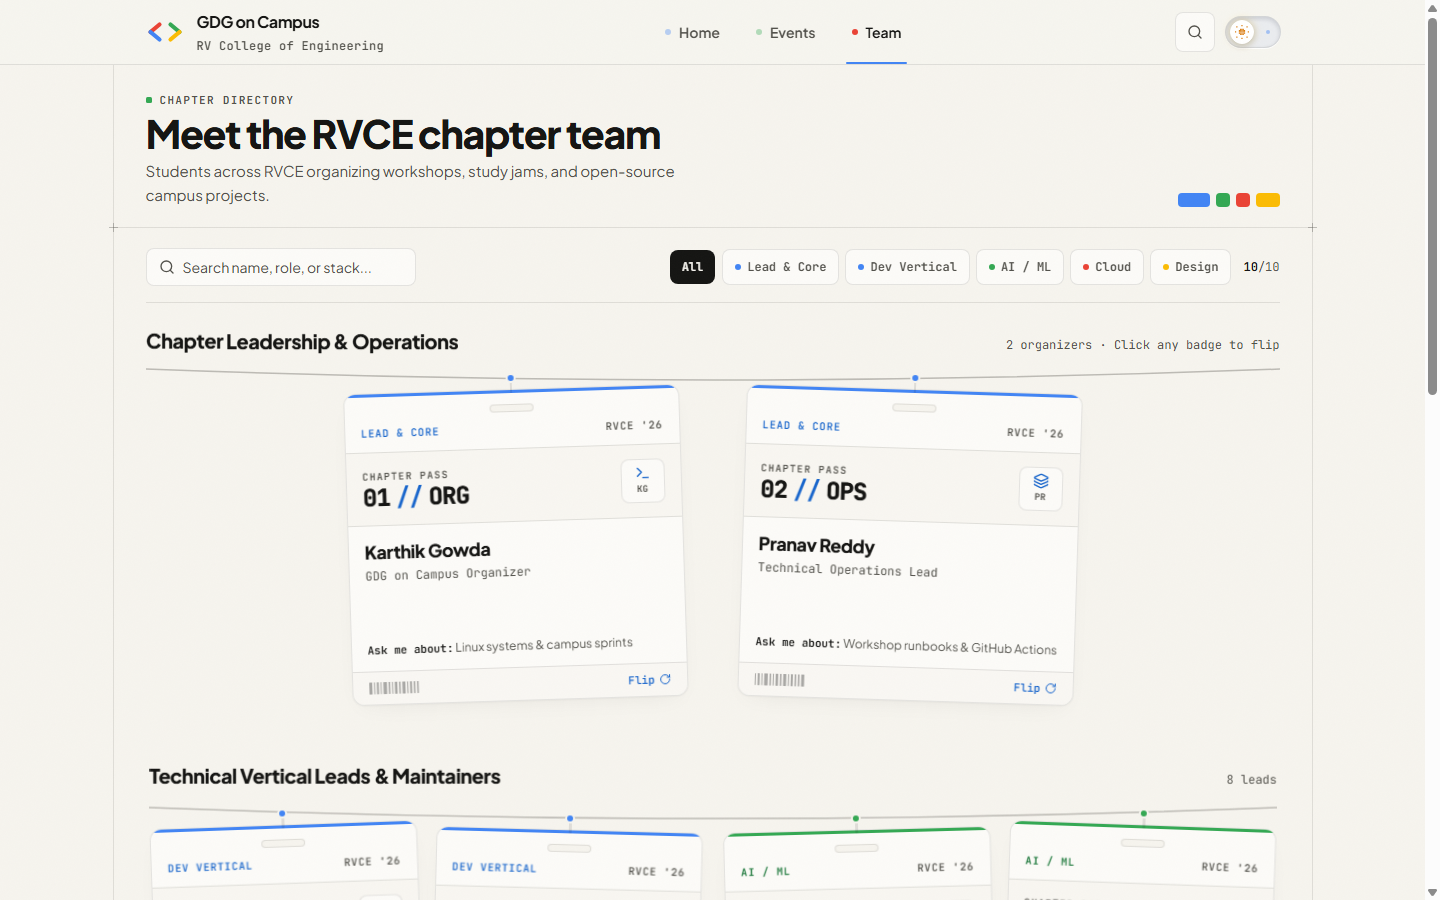
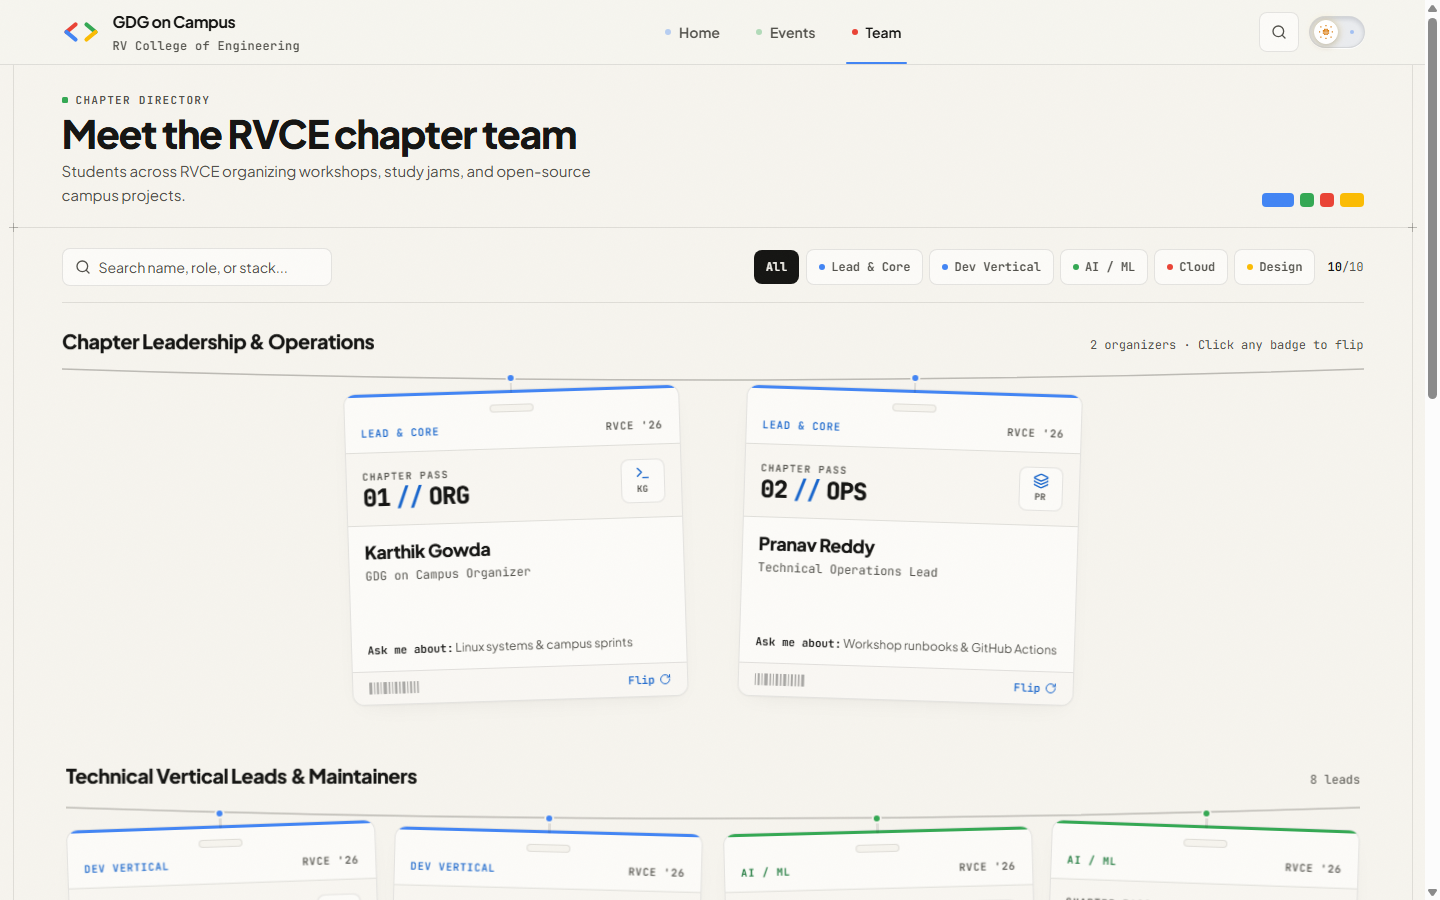
Unsloppification

diff --git a/src/components/home/HeroSection.tsx b/src/components/home/HeroSection.tsx
@@ -13,12 +13,12 @@ export function HeroSection() {
   const nextEvent = getUpcomingEvents()[0];
 
   return (
-    <section className="relative border-b border-hairline bg-canvas lg:flex lg:min-h-[calc(100svh-4rem)] lg:items-center">
-      <div className="mx-auto w-full max-w-[1200px] px-4 sm:px-6 lg:px-8 lg:py-12">
-        <div className="grid grid-cols-1 items-center lg:grid-cols-12 lg:gap-10">
+    <section className="relative border-b border-hairline bg-canvas lg:flex lg:min-h-[min(820px,calc(100svh-4rem))] lg:items-center lg:py-16 xl:py-20">
+      <div className="mx-auto w-full max-w-[1400px] px-5 sm:px-8 lg:px-10 xl:px-12">
+        <div className="grid grid-cols-1 items-center lg:grid-cols-12 lg:gap-12 xl:gap-16">
           {/* Hero Copy, CTAs & Next Session Ticker */}
-          <div className="flex min-w-0 flex-col gap-3.5 pt-4 pb-4 sm:gap-5 sm:py-8 lg:col-span-6 lg:block lg:space-y-5 lg:py-0">
-            <div className="space-y-2.5 sm:space-y-3.5">
+          <div className="flex min-w-0 flex-col gap-3.5 pt-4 pb-4 sm:gap-5 sm:py-8 lg:col-span-6 lg:block lg:space-y-6 lg:py-0">
+            <div className="space-y-2.5 sm:space-y-4">
               <p className="inline-flex items-center gap-2 font-mono text-[11px] font-semibold uppercase tracking-[0.12em] text-ink-muted">
                 <span
                   aria-hidden="true"
@@ -27,7 +27,7 @@ export function HeroSection() {
                 <span>GDG on Campus &middot; RVCE Bengaluru</span>
               </p>
 
-              <h1 className="display-expressive text-[2.25rem] font-extrabold tracking-[-0.038em] leading-[1.04] text-ink sm:text-6xl lg:text-[4.25rem] lg:leading-[1.02]">
+              <h1 className="display-expressive text-[2.25rem] font-extrabold tracking-[-0.038em] leading-[1.04] text-ink sm:text-5xl lg:text-[clamp(2.75rem,5vw,4.75rem)] lg:leading-[1.02]">
                 <KineticText
                   text="Build open systems at RVCE."
                   mode="mount"
@@ -44,9 +44,9 @@ export function HeroSection() {
                   damping: 28,
                   delay: 0.12,
                 }}
-                className="space-y-3 sm:space-y-4"
+                className="space-y-3 sm:space-y-5"
               >
-                <p className="max-w-[50ch] text-[14px] leading-relaxed text-ink-muted text-pretty sm:text-lg">
+                <p className="max-w-[52ch] text-[14px] leading-relaxed text-ink-muted text-pretty sm:text-base lg:text-lg xl:text-[1.15rem]">
                   A student-run developer community at RV College of Engineering
                   building across Web, AI/ML, Cloud, and Android&mdash;through
                   hands-on workshops, code labs, and weekend study jams.

diff --git a/src/components/home/HeroTrackPlayground.tsx b/src/components/home/HeroTrackPlayground.tsx
@@ -383,7 +383,7 @@ export function HeroTrackPlayground() {
       </div>
 
       {/* DESKTOP (lg: and up): Pixel-Measured Fluid BendingIndicator + Fanned 3D Card Deck */}
-      <div className="hidden w-full items-center gap-5 lg:flex">
+      <div className="hidden w-full items-center gap-6 xl:gap-8 lg:flex">
         <div
           ref={railContainerRef}
           role="tablist"
@@ -443,7 +443,7 @@ export function HeroTrackPlayground() {
           onPointerMove={handlePointerMove}
           onPointerLeave={handlePointerLeave}
           style={{ perspective: 950 }}
-          className="relative mx-auto h-[348px] w-full max-w-[420px]"
+          className="relative mx-auto h-[364px] w-full shrink-0 lg:w-[430px] xl:h-[388px] xl:w-[490px]"
         >
           {siteConfig.pillars.map((pillar, idx) => {
             const offset = (idx - activeIndex + total) % total;
@@ -488,7 +488,7 @@ export function HeroTrackPlayground() {
                   stiffness: 320,
                   damping: 26,
                 }}
-                className={`absolute inset-0 flex flex-col justify-between overflow-hidden rounded-xl border border-black/10 p-6 shadow-[inset_0_1px_0_rgba(255,255,255,0.22),0_1px_2px_rgba(0,0,0,0.06),0_12px_28px_-12px_rgba(0,0,0,0.2)] ${
+                className={`absolute inset-0 flex flex-col justify-between overflow-hidden rounded-xl border border-black/10 p-6 xl:p-7 shadow-[inset_0_1px_0_rgba(255,255,255,0.22),0_1px_2px_rgba(0,0,0,0.06),0_12px_28px_-12px_rgba(0,0,0,0.2)] ${
                   theme.bg
                 } ${theme.ink} ${!isFront ? "cursor-pointer" : ""}`}
               >
@@ -516,13 +516,13 @@ export function HeroTrackPlayground() {
                       size="md"
                       tone={theme.artTone}
                       interactive={isFront}
-                      className="h-[74px] w-[74px] shrink-0"
+                      className="h-[74px] w-[74px] shrink-0 xl:h-[82px] xl:w-[82px]"
                     />
                   </div>
                 </div>
 
-                <div className="space-y-2">
-                  <h2 className="text-[1.65rem] font-extrabold tracking-tight leading-tight">
+                <div className="space-y-2.5">
+                  <h2 className="text-[1.65rem] font-extrabold tracking-tight leading-tight xl:text-[1.85rem]">
                     {pillar.title}
                   </h2>
                   <p

diff --git a/src/app/events/[slug]/page.tsx b/src/app/events/[slug]/page.tsx
@@ -58,7 +58,7 @@ function EventDetailFallback() {
   return (
     <div className="bg-canvas pb-24 lg:pb-20">
       <section className="border-b border-hairline bg-canvas py-10 sm:py-14">
-        <div className="mx-auto max-w-6xl px-4 sm:px-6 lg:px-8">
+        <div className="mx-auto max-w-[1400px] px-5 sm:px-8 lg:px-10 xl:px-12">
           <div className="h-6 w-32 rounded bg-surface-muted" />
           <div className="mt-6 h-56 w-full rounded-2xl bg-surface-muted" />
         </div>
@@ -97,7 +97,7 @@ async function EventDetailContent({ params }: EventDetailPageProps) {
     <div className="bg-canvas pb-28 lg:pb-20">
       {/* Full-Bleed Campus Poster Masthead */}
       <section className="relative border-b border-hairline bg-canvas pt-3 pb-6 sm:pt-8 sm:pb-12">
-        <div className="mx-auto max-w-[1200px] px-4 sm:px-6 lg:px-8">
+        <div className="mx-auto max-w-[1400px] px-5 sm:px-8 lg:px-10 xl:px-12">
           <Link
             href="/events"
             className="-ml-2 inline-flex min-h-[40px] items-center gap-1.5 rounded-lg px-2 py-2 font-mono text-xs font-semibold text-ink-muted transition-colors hover:text-ink focus-visible:outline-2 focus-visible:outline-offset-2 focus-visible:outline-[#4285F4] sm:min-h-[44px]"
@@ -196,7 +196,7 @@ async function EventDetailContent({ params }: EventDetailPageProps) {
       </section>
 
       {/* Main Reading Column + Sticky Action Rail */}
-      <div className="mx-auto mt-8 max-w-[1200px] px-4 sm:px-6 lg:mt-12 lg:px-8">
+      <div className="mx-auto mt-8 max-w-[1400px] px-5 sm:px-8 lg:mt-12 lg:px-10 xl:px-12">
         <div className="grid grid-cols-1 items-start gap-10 lg:grid-cols-12 lg:gap-12">
           {/* Calm Reading Column (8 cols) */}
           <div className="space-y-12 lg:col-span-8">

diff --git a/src/components/home/CountdownTimer.tsx b/src/components/home/CountdownTimer.tsx
@@ -127,20 +127,18 @@ export function CountdownTimer({ event }: CountdownTimerProps) {
               key={seg.label}
               className="inline-flex items-baseline gap-0.5 rounded-lg border border-hairline bg-surface px-1.5 py-1"
             >
-              <span className="relative inline-flex h-6 w-[2.15ch] items-center justify-center overflow-hidden sm:h-7">
+              <span className="relative inline-flex h-[1.2em] w-[2ch] items-center justify-center overflow-hidden text-lg font-bold leading-none tabular-nums text-ink sm:text-xl">
                 <AnimatePresence initial={false} mode="popLayout">
                   <m.span
                     key={seg.value}
-                    initial={{ y: 12, opacity: 0 }}
-                    animate={{ y: 0, opacity: 1 }}
-                    exit={{ y: -12, opacity: 0 }}
+                    initial={{ y: "100%", opacity: 0 }}
+                    animate={{ y: "0%", opacity: 1 }}
+                    exit={{ y: "-100%", opacity: 0 }}
                     transition={{
-                      type: "spring",
-                      stiffness: 420,
-                      damping: 28,
-                      mass: 0.6,
+                      duration: 0.18,
+                      ease: [0.22, 1, 0.36, 1],
                     }}
-                    className="inline-block text-lg font-bold leading-none tabular-nums text-ink sm:text-xl"
+                    className="absolute inset-0 inline-flex items-center justify-center leading-none tabular-nums"
                   >
                     {seg.value}
                   </m.span>

diff --git a/src/app/team/page.tsx b/src/app/team/page.tsx
@@ -15,7 +15,7 @@ export default function TeamPage() {
     <div className="bg-canvas">
       {/* Compact Editorial Team Masthead — tuned so Leadership lanyard cards sit above the fold on desktop */}
       <section className="relative border-b border-hairline bg-canvas py-5 sm:py-6 lg:py-5">
-        <div className="mx-auto max-w-[1200px] px-4 sm:px-6 lg:px-8">
+        <div className="mx-auto max-w-[1400px] px-5 sm:px-8 lg:px-10 xl:px-12">
           <div className="flex flex-col gap-3 sm:flex-row sm:items-end sm:justify-between">
             <div className="max-w-3xl">
               <p className="mb-1.5 inline-flex items-center gap-2 font-mono text-[11px] font-semibold uppercase tracking-[0.12em] text-ink-muted">
@@ -48,7 +48,7 @@ export default function TeamPage() {
 
       {/* Hanging Lanyard Badges (Desktop) & Swipeable 3D-Flip Carousels (Mobile) */}
       <section className="py-5 sm:py-6 lg:pt-5 lg:pb-14">
-        <div className="mx-auto max-w-[1200px] px-4 sm:px-6 lg:px-8">
+        <div className="mx-auto max-w-[1400px] px-5 sm:px-8 lg:px-10 xl:px-12">
           <Suspense
             fallback={
               <div className="border-y border-hairline py-8 font-mono text-xs text-ink-muted">

diff --git a/src/app/events/page.tsx b/src/app/events/page.tsx
@@ -21,7 +21,7 @@ export default function EventsPage() {
     <div className="bg-canvas">
       {/* Open Editorial Masthead + Compact Next Flagship Strip (hidden on mobile so first poster shows immediately) */}
       <section className="relative border-b border-hairline bg-canvas py-5 sm:py-10 lg:py-10">
-        <div className="mx-auto max-w-[1200px] px-4 sm:px-6 lg:px-8">
+        <div className="mx-auto max-w-[1400px] px-5 sm:px-8 lg:px-10 xl:px-12">
           <div className="grid grid-cols-1 items-center gap-6 lg:grid-cols-12 lg:gap-8">
             <div className="lg:col-span-7">
               <p className="mb-2 inline-flex items-center gap-2 font-mono text-[11px] font-semibold uppercase tracking-[0.12em] text-ink-muted">
@@ -103,7 +103,7 @@ export default function EventsPage() {
 
       {/* Interactive Operational Directory */}
       <section className="py-5 sm:py-10 lg:py-12">
-        <div className="mx-auto max-w-[1200px] px-4 sm:px-6 lg:px-8">
+        <div className="mx-auto max-w-[1400px] px-5 sm:px-8 lg:px-10 xl:px-12">
           <Suspense
             fallback={
               <div className="border-y border-hairline py-8 font-mono text-xs text-ink-muted">

diff --git a/src/components/home/LatestRecap.tsx b/src/components/home/LatestRecap.tsx
@@ -230,7 +230,7 @@ export function LatestRecap() {
       className="relative border-b border-hairline bg-surface-muted/45 py-10 sm:py-16 lg:flex lg:min-h-[calc(100svh-4rem)] lg:items-center lg:py-14"
     >
       <ScrollStage className="w-full">
-        <div className="mx-auto w-full max-w-[1200px] px-4 sm:px-6 lg:px-8">
+        <div className="mx-auto w-full max-w-[1400px] px-5 sm:px-8 lg:px-10 xl:px-12">
           <LayoutGroup id="recap-contact-sheet">
             <div className="grid grid-cols-1 items-start gap-10 lg:grid-cols-12 lg:gap-12">
               {/* Left: Editorial Recap Summary + 3 Concrete Takeaways (5 cols) */}

diff --git a/src/components/home/FeaturedEvents.tsx b/src/components/home/FeaturedEvents.tsx
@@ -27,7 +27,7 @@ export function FeaturedEvents() {
       className="relative border-b border-hairline bg-canvas py-10 sm:py-16 lg:flex lg:min-h-[calc(100svh-4rem)] lg:items-center lg:py-14"
     >
       <ScrollStage className="w-full">
-        <div className="mx-auto w-full max-w-[1200px] px-4 sm:px-6 lg:px-8">
+        <div className="mx-auto w-full max-w-[1400px] px-5 sm:px-8 lg:px-10 xl:px-12">
           {/* Swiss Editorial Section Header */}
           <div className="flex flex-col gap-4 border-b border-hairline pb-6 sm:flex-row sm:items-end sm:justify-between">
             <div>

diff --git a/src/components/layout/Navbar.tsx b/src/components/layout/Navbar.tsx
@@ -52,7 +52,7 @@ export function Navbar() {
   return (
     <>
       <header className="sticky top-0 z-40 border-b border-hairline bg-canvas/95 backdrop-blur-md">
-        <div className="mx-auto flex h-16 max-w-[1200px] items-center justify-between gap-2 px-4 sm:gap-4 sm:px-6 lg:px-8">
+        <div className="mx-auto flex h-16 max-w-[1400px] items-center justify-between gap-2 px-5 sm:gap-4 sm:px-8 lg:px-10 xl:px-12">
           <Link
             href="/"
             aria-label={`${siteConfig.chapterName} — Home`}

diff --git a/src/app/layout.tsx b/src/app/layout.tsx
@@ -54,7 +54,7 @@ export default function RootLayout({
             <div aria-hidden="true" className="gdg-paper-grain" />
             <Navbar />
             <CommandPalette />
-            <div className="mx-auto flex w-full max-w-[1200px] flex-1 flex-col xl:border-x xl:border-hairline">
+            <div className="mx-auto flex w-full max-w-[1400px] flex-1 flex-col xl:border-x xl:border-hairline">
               <main id="main-content" className="flex-1">
                 {children}
               </main>

diff --git a/src/components/home/CommunityLinks.tsx b/src/components/home/CommunityLinks.tsx
@@ -43,7 +43,7 @@ export function CommunityLinks() {
       className="bg-canvas py-10 sm:py-16 lg:py-24"
     >
       <ScrollStage className="w-full">
-        <div className="mx-auto w-full max-w-[1200px] px-4 sm:px-6 lg:px-8">
+        <div className="mx-auto w-full max-w-[1400px] px-5 sm:px-8 lg:px-10 xl:px-12">
           <div className="grid grid-cols-1 gap-6 md:gap-10 lg:grid-cols-12 lg:gap-12">
             {/* Left Editorial Column (4 cols) */}
             <div className="lg:col-span-4">

diff --git a/src/components/layout/Footer.tsx b/src/components/layout/Footer.tsx
@@ -44,7 +44,7 @@ export function Footer() {
         <div className="bg-[#34A853]" />
       </div>
 
-      <div className="mx-auto max-w-[1200px] px-4 py-8 sm:px-6 md:py-12 lg:px-8">
+      <div className="mx-auto max-w-[1400px] px-5 py-8 sm:px-8 md:py-12 lg:px-10 xl:px-12">
         {/* MOBILE (< md): Compact Zero-Bloat Footer */}
         <div className="space-y-5 md:hidden">
           <div className="space-y-2">
